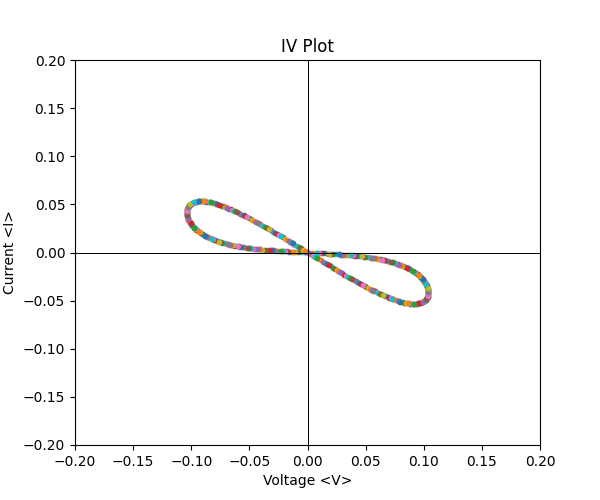
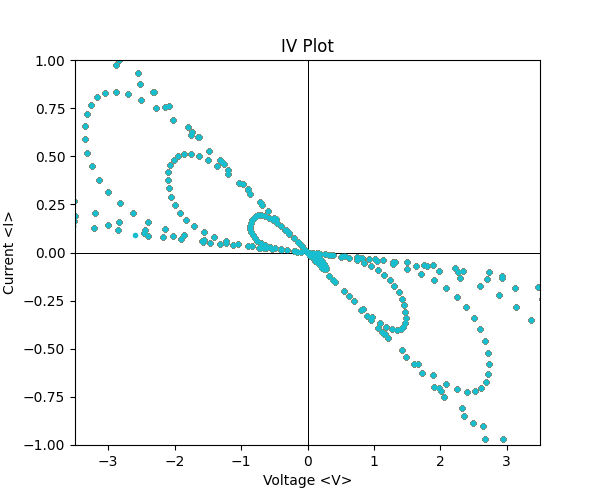
Implemented measurement process for pauli-y matrix

diff --git a/q_memristor/circuits/memristor_dynamic.py b/q_memristor/circuits/memristor_dynamic.py
@@ -1,43 +1,12 @@
-from matplotlib import pyplot as plt
-from qiskit import Aer, execute, QuantumCircuit, QuantumRegister, ClassicalRegister
+from qiskit import QuantumCircuit, QuantumRegister, ClassicalRegister
 from qiskit.circuit.library import RYGate
-from scipy.integrate import quad
 import numpy as np
-
-from q_memristor.circuits import iv_plot_circuit
-from q_memristor.numerical.num_memristor import memristor
-from q_memristor.numerical.operators import pauli_y2
+from Simulator import IBMQSimulator
 
 """
     Simulation of dynamic quantum memristor 
     (Circuit shown in Fig. 3. of "Quantum Memristors with Quantum Computers")
 """
-
-
-class IBMQSimulator:
-    def __init__(self, backend='qasm_simulator'):
-        self.backend = backend
-
-    def execute_circuit(self, circ, shots=50000):
-        sim = Aer.get_backend(self.backend)
-        job = execute(circ, sim, shots=shots, memory=True)
-        result = job.result()
-        # print(result.get_memory())
-        # cnts = result.get_counts(circ)
-        # return cnts
-        return result.get_memory()
-
-
-def gamma(ts):
-    y0 = 0.2
-    w = 1
-    return y0 * (1 - np.sin(np.cos(w * ts)))
-
-
-def k(ts_next, ts):
-    integrand = lambda t_prime: gamma(t_prime)
-    integral_result, _ = quad(integrand, ts, ts_next)
-    return -integral_result / 2
 
 
 if __name__ == '__main__':
@@ -58,15 +27,15 @@ if __name__ == '__main__':
     b = np.pi / 5
     y0 = 0.2
     w = 1
-    theta1 = np.pi
-    phi1 = np.pi
-    lambda1 = np.pi
-    theta2 = np.pi
-    phi2 = np.pi
-    lambda2 = np.pi
 
     pure_state = [np.cos(a), np.sin(a) * np.exp(1j * b)]
     zero_state = [1, 0]
+
+    backend_string = 'qasm_simulator'
+    shots = 50000
+
+    # simulator = IBMQSimulator(backend_string, shots)
+    simulator = IBMQSimulator(backend_string, shots)
 
     # REGISTERS OF THE CIRCUIT
     # Q_sys = memristor
@@ -78,16 +47,16 @@ if __name__ == '__main__':
     circuit = QuantumCircuit(Q_env, Q_sys, C)
 
     # INITIALIZATION PROCESS
-    # circuit.u(theta1, phi1, lambda1, Q_sys)
-    circuit.initialize(pure_state, Q_sys)
-    initial_state = [1] + [0] * (2 ** len(Q_env) - 1)
-    circuit.initialize(initial_state, Q_env)
+    # circuit.u(np.pi, np.pi, np.pi, Q_sys)
+    # circuit.initialize(pure_state, Q_sys)
+    # initial_state = [1] + [0] * (2 ** len(Q_env) - 1)
+    # circuit.initialize(initial_state, Q_env)
 
     # EVOLUTION PROCESS
     for i in range(len(t) - 1):
         print('Time-step: ', t[i])
 
-        theta = np.arccos(np.exp(k(t[i + 1], t[i])))
+        theta = np.arccos(np.exp(simulator.k(t[i + 1], t[i])))
         print('Theta: ', theta)
 
         evol_qc = QuantumCircuit(Q_env, Q_sys, name='evolution')
@@ -99,12 +68,18 @@ if __name__ == '__main__':
             evol_qc.cnot(Q_env[len(t) - 1 - x], Q_sys)
 
         all_qbits = Q_env[:] + Q_sys[:]
-        circuit.append(evol_qc.to_instruction(), all_qbits)
+        circuit.append(evol_qc, all_qbits)
 
     # MEASUREMENT PROCESS
+
+    # TODO: change circuit to have two measurement process at the same time
+    # These measurements provide the values of the matrices that should be plugged into the equation of
+    # the voltage and current.
+    circuit.sdg(Q_sys)      # Apply S gate to qubit 1
+    circuit.h(Q_sys)        # Apply H gate to qubit 0
+
     # first parameter = 1 = qbit on which the measurement takes place
     # second parameter = 2 = classical bit to place the measurement result in
-    circuit.u(theta2, phi2, lambda2, Q_sys)
     circuit.measure(Q_sys, C)
 
     # UNCOMMENT TO DISPLAY CIRCUIT
@@ -112,67 +87,35 @@ if __name__ == '__main__':
     # print(circuit.decompose().draw())
 
     # Save image of final circuit
-    circuit.decompose().draw('mpl', filename='dynamic_circuit.png')
+    # circuit.decompose().draw('mpl', filename='dynamic_circuit.png')
 
     # Execute the circuit using the simulator
-    simulator = IBMQSimulator()
-    counts = simulator.execute_circuit(circuit)
+    counts, measurements = simulator.execute_circuit(circuit)
 
     print('Simulator Measurement: ', counts)
     # Example Simulator Measurement:  {'1': 16, '0': 1008}
     # 1 --> obtained 16 times
     # 0 --> obtained 1008 times
+    print('Measurements', measurements)
 
-    # EXPECTATION VALUES
-    # num_shots = sum(counts.values())
-    # expectation_values = {}
+    # Define the observable matrix
+    # observable_matrix = np.array([[0, -1j], [1j, 0]])   # Pauli-Y
+
+    # Calculate the expectation value for each shot
+    # expectation_value = 0
+    # for outcome in counts:
+    #     probability = counts[outcome] / shots
+    #     measurement_result = int(outcome, 2)  # Convert outcome (binary string) to integer
+    #     expectation_value += probability * observable_matrix[measurement_result][measurement_result]
     #
-    # for register in counts:
-    #     expectation_values[register] = counts[register] / num_shots
-    #
-    # print("Expectation values:", expectation_values, '\n')
+    # print("Exp value: ")
+    # print(expectation_value)
 
-    # Time-steps
-    eps = 0.1
-    tmax = 50000.1
-    t = np.arange(0, tmax, eps)
-
-    # Simulation parameters
-    a = np.pi / 4
-    b = np.pi / 5
-    m = 1
-    h = 1
-    w = 1
-    y0 = 0.4
-    amplitude = 1
-    ang_freq = w  # angular frequency = w
-
-    mem = memristor(y0, w, h, m, a, b)
-
-    angle = np.arccos(np.exp(mem.k1(0)))  # phase angle
-
-    pure_state = np.array([np.cos(a), np.sin(a) * np.exp(1j * b)], dtype=complex)
-
-    # V = sinusoidal time dependence
-    V = []
-
-    # Initialize V_0 and I_0
-    V.append(-(1 / 2) * np.sqrt((m * h * w) / 2) * mem.exp_value(pauli_y2, pure_state))
-
-    iv_plt = iv_plot_circuit.IVplot()
-
-    int_array = np.array([int(outcome, 2) for outcome in counts])
-
-    for i in range(1, 50000):
-        # angle = np.arccos(np.exp(mem.k1(t[i])))
-        # v_val = amplitude * np.sin(ang_freq * t[i] + angle)
-        v_val = V[0] * np.sin(w * t[i])
-        V.append(v_val)
-        # iv_plt.update(int_array[i], V[i])
-
-    plt.scatter(V, int_array, c=int_array, cmap='viridis')
-    plt.xlabel('Voltage')
-    plt.ylabel('Output Current')
-    plt.title('IV Plot with Binary Output')
-    plt.show()
-    # iv_plt.save_plot()
+    # # EXPECTATION VALUES
+    # # num_shots = sum(counts.values())
+    # # expectation_values = {}
+    # #
+    # # for register in counts:
+    # #     expectation_values[register] = counts[register] / num_shots
+    # #
+    # # print("Expectation values:", expectation_values, '\n')

diff --git a/q_memristor/plots/iv_plot.py b/q_memristor/plots/iv_plot.py
@@ -4,17 +4,16 @@ import matplotlib.pyplot as plt
 class IVplot:
     def __init__(self, v0, i0):
         self.fig, self.ax = plt.subplots(figsize=(6, 5))
-        # self.ax.set_xlim(-1.5, 1.5)
-        # self.ax.set_ylim(-1.0, 1.0)
-        self.ax.set_xlim(-0.2, 0.2)
-        self.ax.set_ylim(-0.2, 0.2)
+        self.ax.set_xlim(-3.5, 3.5)
+        self.ax.set_ylim(-1.0, 1.0)
+        # self.ax.set_xlim(-0.2, 0.2)
+        # self.ax.set_ylim(-0.2, 0.2)
         self.ax.axhline(0, color='black', linewidth=0.5)
         self.ax.axvline(0, color='black', linewidth=0.5)
         self.v0 = v0
         self.i0 = i0
         self.xs = []
         self.ys = []
-        self.dots, = self.ax.plot([], [], 'o', markersize=3)
         self.ax.set_xlabel('Voltage <V>')
         self.ax.set_ylabel('Current <I>')
         self.ax.set_title('IV Plot')
@@ -25,14 +24,15 @@ class IVplot:
         # i = -i / self.i0
         self.xs.append(v)
         self.ys.append(-i)
-        self.xs = self.xs[-1:]
-        self.ys = self.ys[-1:]
+        # Uncomment to plot a single dot at each iteration
+        # self.xs = self.xs[-1:]
+        # self.ys = self.ys[-1:]
         # Uncomment the next line if we want to see only one dot at each update
         # self.ax.cla()
-        # self.ax.set_xlim(-1.5, 1.5)
-        # self.ax.set_ylim(-1.0, 1.0)
-        self.ax.set_xlim(-0.2, 0.2)
-        self.ax.set_ylim(-0.2, 0.2)
+        self.ax.set_xlim(-3.5, 3.5)
+        self.ax.set_ylim(-1.0, 1.0)
+        # self.ax.set_xlim(-0.2, 0.2)
+        # self.ax.set_ylim(-0.2, 0.2)
         self.ax.axhline(0, color='black', linewidth=0.5)
         self.ax.axvline(0, color='black', linewidth=0.5)
         self.ax.plot(self.xs, self.ys, 'o', markersize=3)

diff --git a/q_memristor/numerical/main.py b/q_memristor/numerical/main.py
@@ -4,6 +4,10 @@ from num_memristor import memristor
 import numpy as np
 
 
+def f(v0, gamma0, ts):
+    return v0+(gamma0*ts)
+
+
 if __name__ == '__main__':
     # Time-steps
     eps = 0.1
@@ -16,9 +20,8 @@ if __name__ == '__main__':
     m = 1
     h = 1
     w = 1
-    y0 = 0.4
+    y0 = 0.2
     amplitude = 1
-    ang_freq = w                  # angular frequency = w
 
     mem = memristor(y0, w, h, m, a, b)
 
@@ -34,7 +37,7 @@ if __name__ == '__main__':
 
     # Initialize V_0 and I_0
     V.append(-(1 / 2) * np.sqrt((m * h * w) / 2) * mem.exp_value(pauli_y2, pure_state))
-    # V.append(amplitude * np.sin(ang_freq * t[0] + angle))
+    # V.append(amplitude * np.sin(w * t[0] + angle))
     I.append(mem.gamma(t[0]) * V[0])
     print('V: ', V[0], ' at time: ', 0.0)
     print('I: ', I[0], ' at time: ', 0.0)
@@ -42,10 +45,14 @@ if __name__ == '__main__':
     iv_plt = iv_plot.IVplot(V[0], I[0])
     t_plt = time_plot.Tplot()
 
+    # Hysterisis is constant because of V0
+    # V[0] should decrease in time
+    # function of gamma and t to make V[0] decrease such that it is smaller than the previous V[0]
     for i in range(1, len(t)):
         # angle = np.arccos(np.exp(mem.k1(t[i])))
-        # v_val = amplitude * np.sin(ang_freq * t[i] + angle)
-        v_val = V[0]*np.sin(w*t[i])
+        # v_val = amplitude * np.sin(w * t[i] + angle)
+        # v_val = V[0]*np.sin(w*t[i])
+        v_val = f(V[0], y0, t[i]) * np.sin(w * t[i])
         V.append(v_val)
         I.append(mem.gamma(t[i]) * V[i])
         iv_plt.update(V[i], I[i])

diff --git a/q_memristor/circuits/Simulator.py b/q_memristor/circuits/Simulator.py
@@ -1,0 +1,29 @@
+import numpy as np
+from qiskit import Aer, execute
+from scipy.integrate import quad
+
+
+class IBMQSimulator:
+    def __init__(self, backend, shots):
+        self.backend = backend
+        self.shots = shots
+
+    def execute_circuit(self, circ):
+        # shots = 50000 (according to paper) --> reduced for computation purposes
+        sim = Aer.get_backend(self.backend)
+        job = execute(circ, sim, shots=self.shots, memory=True)
+        result = job.result()
+        measurements = result.get_memory()
+        cnts = result.get_counts(circ)
+        return cnts, measurements
+
+    def gamma(self, ts):
+        y0 = 0.2
+        w = 1
+        return y0 * (1 - np.sin(np.cos(w * ts)))
+
+    def k(self, ts_next, ts):
+        integrand = lambda t_prime: self.gamma(t_prime)
+        integral_result, _ = quad(integrand, ts, ts_next)
+        return -integral_result / 2
+

diff --git a/q_memristor/circuits/memristor_coupled.py b/q_memristor/circuits/memristor_coupled.py
@@ -21,7 +21,6 @@ class IBMQSimulator:
         cnts = result.get_counts(circ)
         return cnts
 
-
 # TODO: check correct implementation of decay rate function
 def gamma(y0, w, ts):
     return y0 * (1 - np.sin(np.cos(w * ts)))
